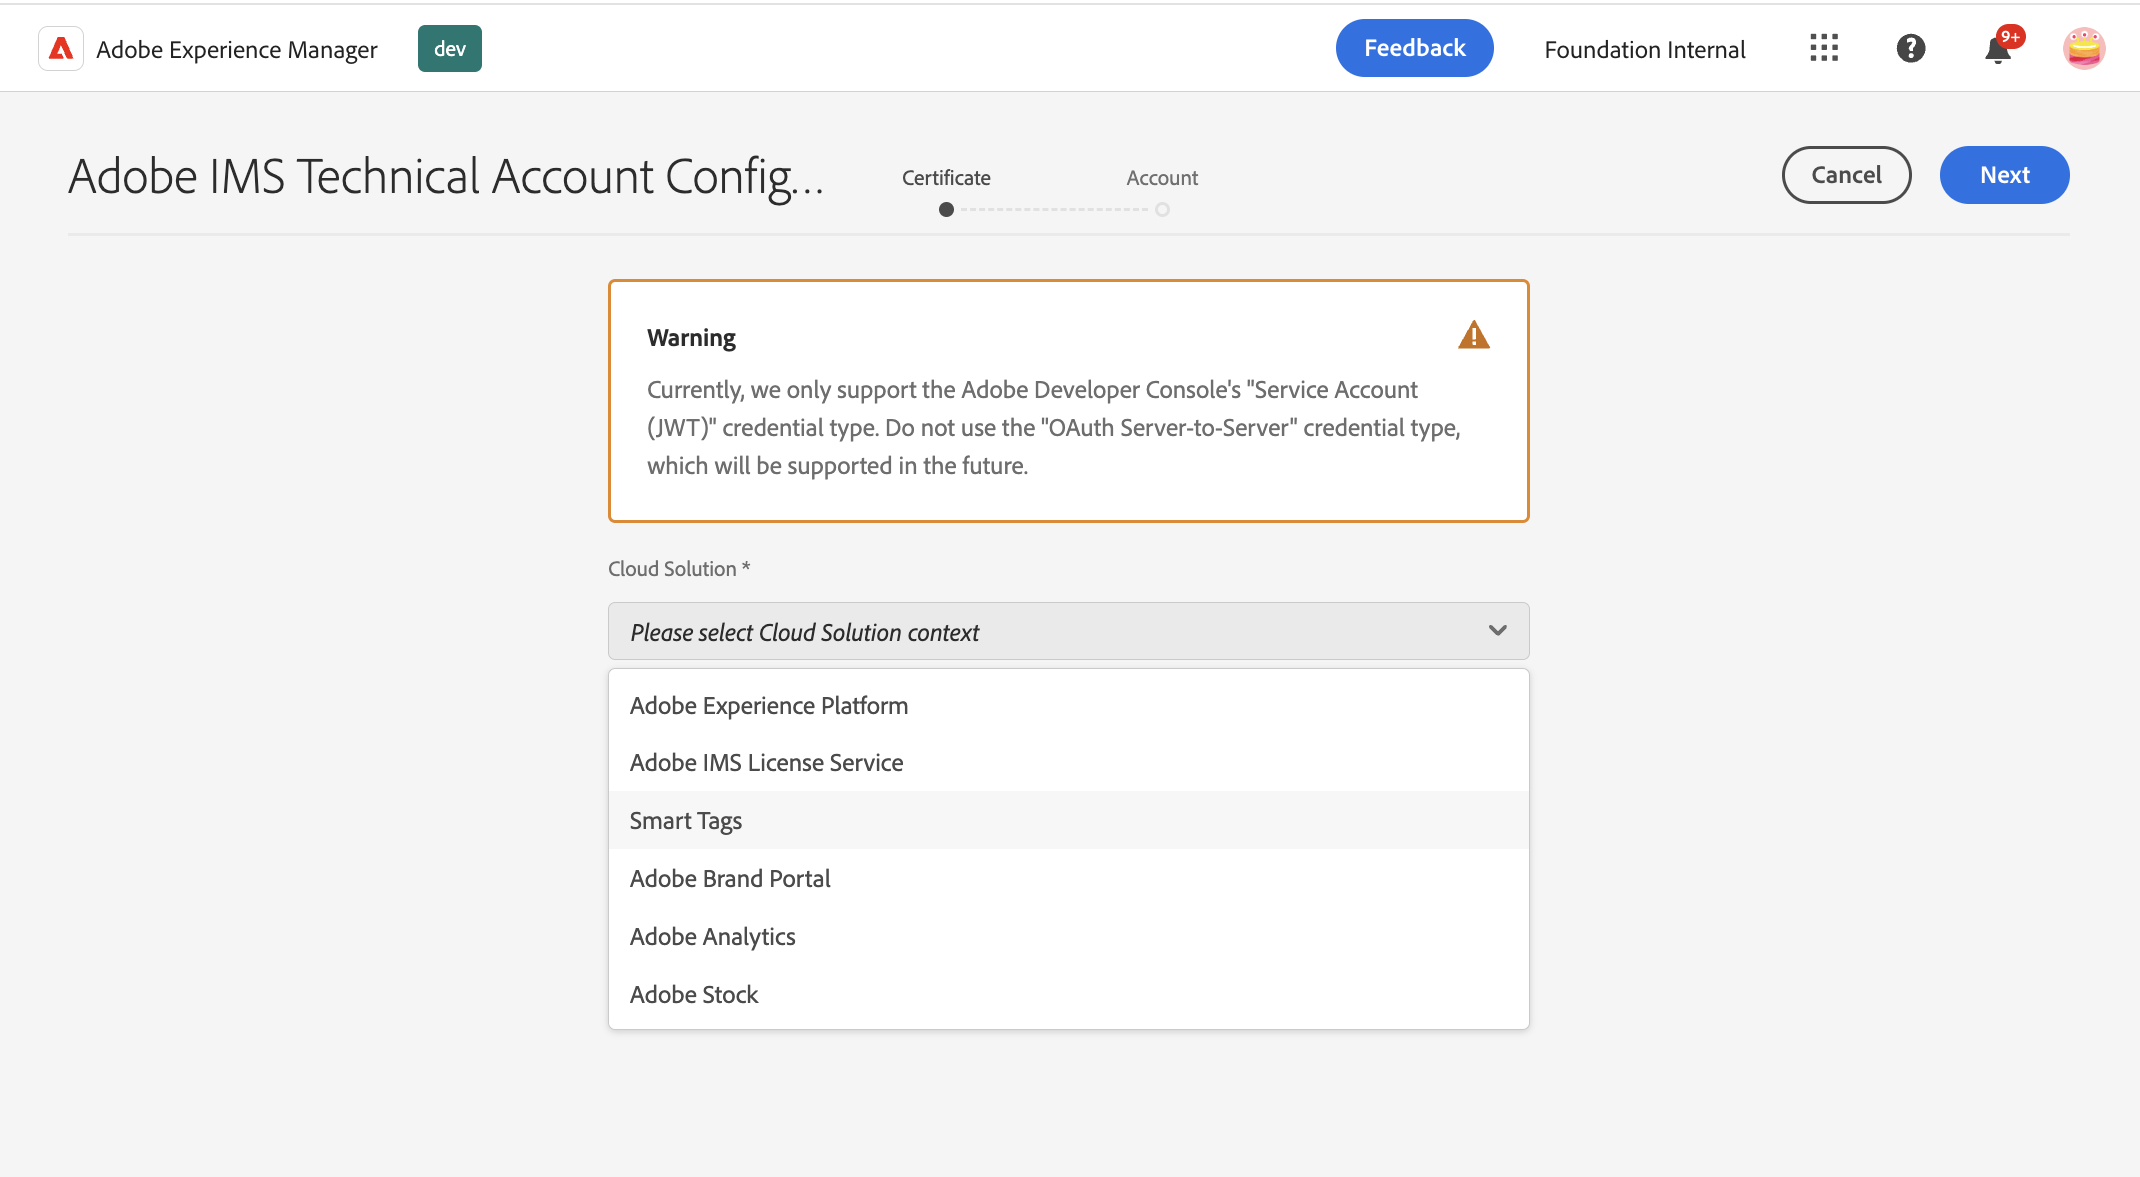
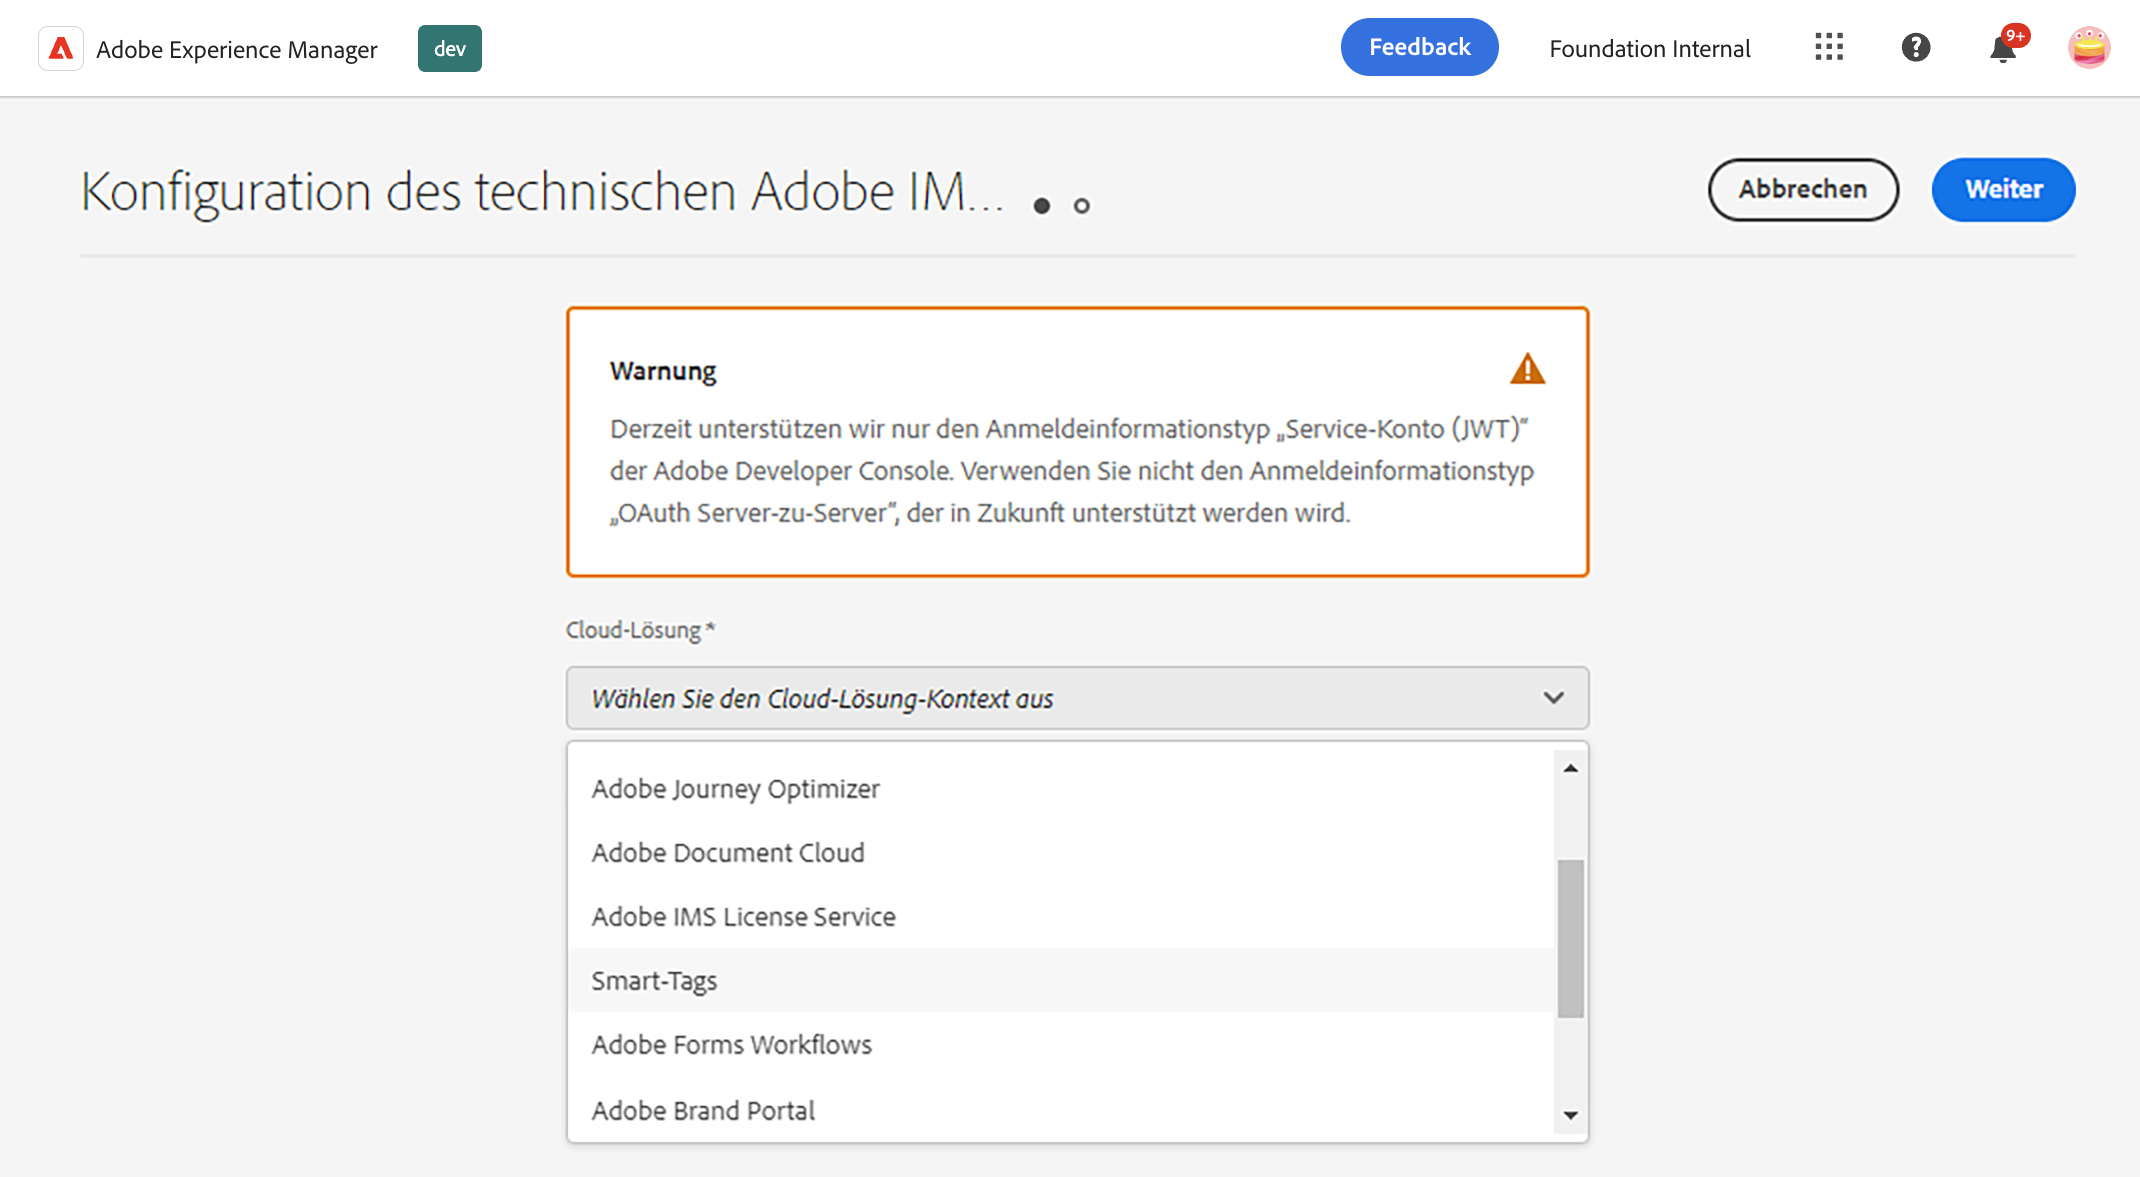
Updated by task 'AUTO_HANDOFF_PRIORITY_1709106723234'  Changes for core/source commit https://git.corp.adobe.com/AdobeDocs/experience-manager-cloud-service.en/commit/120845c9661c081409906cec98c60d8c0798b9bc

diff --git a/help/security/jwt-credentials-deprecation-in-adobe-developer-console.md b/help/security/jwt-credentials-deprecation-in-adobe-developer-console.md
@@ -1,57 +1,57 @@
 ---
-title: Einstellung von JWT-Anmeldedaten in der Adobe Developer Console
-description: Erfahren Sie mehr über die Auswirkungen der Einstellung von JWT-Anmeldedaten in der Adobe Developer Console auf AEM
+title: Einstellung der JWT-Anmeldedaten in Adobe Developer Console
+description: Weitere Informationen zu den Auswirkungen der Einstellung der JWT-Anmeldedaten in Adobe Developer Console auf AEM
 source-git-commit: e02e38a5267188111f0392a0a5c7b73e6a4f22b5
-workflow-type: tm+mt
+workflow-type: ht
 source-wordcount: '598'
-ht-degree: 0%
+ht-degree: 100%
 
 ---
 
 
-# Einstellung von JWT-Anmeldedaten in der Adobe Developer Console {#jwt-credentials-deprecation-in-adobe-developer-console}
+# Einstellung der JWT-Anmeldedaten in Adobe Developer Console {#jwt-credentials-deprecation-in-adobe-developer-console}
 
-Adobe-Kunden verwenden [Adobe Developer-Konsole](https://developer.adobe.com/console) , um Anmeldeinformationen zu generieren, die den Zugriff auf verschiedene APIs ermöglichen. Die Kunden wählen aus verschiedenen Berechtigungstypen, von OAuth Server zu Server bis zu Single Page App. Einer dieser Berechtigungstypen, die Anmeldedaten für Dienstkonten (JWT), wurde zugunsten der OAuth Server-zu-Server-Anmeldedaten eingestellt. Neue Service Account (JWT)-Anmeldeinformationen können am oder nach dem 1. Mai 2024 nicht erstellt werden und vorhandene JWT-Anmeldeinformationen funktionieren am oder nach dem 1. Januar 2025 nicht mehr. Sie können [Informationen zur veralteten Version](https://developer.adobe.com/developer-console/docs/guides/authentication/ServerToServerAuthentication/migration/).
+Mit der [Adobe Developer Console](https://developer.adobe.com/console) können Kundinnen und Kunden von Adobe Anmeldedaten generieren, die den Zugriff auf verschiedene APIs ermöglichen. Dabei können sie unter verschiedenen Anmeldedatentypen wählen, von OAuth Server-zu-Server bis zu Single-Page-App. Einer dieser Anmeldedatentypen, Anmeldedaten für Dienstkonten (JWT), wurde zugunsten der OAuth Server-zu-Server-Anmeldedaten eingestellt. Neue Dienstkonten(JWT)-Anmeldedaten können ab dem 1. Mai 2024 nicht mehr erstellt werden und vorhandene JWT-Anmeldedaten funktionieren ab dem 1. Januar 2025 nicht mehr. [Weitere Information zur Einstellung der JWT-Anmeldedaten finden Sie hier](https://developer.adobe.com/developer-console/docs/guides/authentication/ServerToServerAuthentication/migration/).
 
-Dieser Artikel bietet einen zusätzlichen Kontext dazu, wie AEM as a Cloud Service und AEM 6.5-Kunden die Einstellung handhaben sollten.
+Dieser Artikel bietet zusätzliche Informationen dazu, wie Kundinnen und Kunden von AEM as a Cloud Service und AEM 6.5 auf diese Einstellung reagieren sollten.
 
-Der Hauptvorteil ist derzeit, dass AEM Funktionen die neuen OAuth Server-zu-Server-Anmeldedaten noch nicht unterstützen. Der Support wird bald verfügbar sein - bis Mitte April 2024 durch eine AEM-Version für AEM as a Cloud Service und durch ein spezielles Kompatibilitätspaket, das für AEM 6.5 installiert wird, wenn Sie das neueste Service Pack 20 oder niedriger ausführen (Service Pack 21 und höher wird es automatisch einschließen). Möglicherweise haben Sie eine E-Mail mit Anweisungen zum Migrieren Ihrer JWT-Anmeldeinformationen erhalten. Sie sollten jedoch sicherstellen, dass Sie die Migration der Anmeldeinformationen speichern können und sollten, bis AEM den neuen OAuth-Server-zu-Server-Berechtigungstyp unterstützt.
+Die wichtigste Information ist derzeit, dass AEM-Funktionen die neuen OAuth Server-zu-Server-Anmeldedaten noch nicht unterstützen. Support wird bald verfügbar sein. Bis Mitte April 2024 wird eine AEM-Version für AEM as a Cloud Service erscheinen und ein spezielles Kompatibilitätspaket, das für AEM 6.5 installiert werden kann, wenn Sie das neueste Service Pack 20 oder niedriger ausführen (Service Pack 21 und höher wird es automatisch einschließen). Möglicherweise haben Sie eine E-Mail mit Anweisungen zum Migrieren Ihrer JWT-Anmeldedaten erhalten. Bitte warten Sie jedoch mit der Migration der Anmeldedaten bis AEM den neuen OAuth-Server-zu-Server-Anmeldedatentyp unterstützt.
 
-In den folgenden Abschnitten werden die Szenarien aufgelistet, in denen Kunden ihre JWT-Anmeldeinformationen (Service Account) durch OAuth Server-zu-Server-Anmeldeinformationen ersetzen müssen (oder in einigen Fällen nicht), sobald AEM sie Mitte April unterstützt. [Lesen von](https://developer.adobe.com/developer-console/docs/guides/authentication/ServerToServerAuthentication/migration/#migration-overview) , um die Anmeldeinformationen in der Zukunft zu ersetzen.
+In den folgenden Abschnitten werden die Szenarien aufgeführt, in denen Kundinnen und Kunden ihre Dienstkonten(JWT)-Anmeldedaten durch OAuth Server-zu-Server-Anmeldedaten ersetzen müssen (oder in einigen Fällen dies nicht tun sollten), sobald AEM sie ab Mitte April unterstützt. Weitere Informationen dazu, wie die Anmeldedaten in Zukunft ersetzt werden können, finden Sie [hier](https://developer.adobe.com/developer-console/docs/guides/authentication/ServerToServerAuthentication/migration/#migration-overview).
 
 >[!NOTE]
 >
->Die [**AEM** Entwicklerkonsole](/help/implementing/developing/introduction/development-guidelines.md#crxde-lite-and-developer-console) (Beachten Sie die **AEM** im Namen, der ihn von der **Adobe** Developer Console) bietet ein Dienstprogramm zum Generieren von [JWT-Token](/help/implementing/developing/introduction/generating-access-tokens-for-server-side-apis.md) wird für Server-zu-Server-APIs verwendet. Diese Anmeldeinformationen werden nicht veraltet und können weiterhin verwendet werden.
+>Die [**AEM** Developer Console](/help/implementing/developing/introduction/development-guidelines.md#crxde-lite-and-developer-console) (Beachten Sie **AEM** im Namen, was die AEM Developer Console von der **Adobe** Developer Console unterscheidet) bietet ein Dienstprogramm zum Generieren von [JWT-Token](/help/implementing/developing/introduction/generating-access-tokens-for-server-side-apis.md), die für Server-zu-Server-APIs verwendet werden. Diese Anmeldedaten sind nicht veraltet und können weiterhin verwendet werden.
 
 
 ## Integrieren von AEM mit anderen Adobe-Lösungen {#integrating-aem-with-other-adobe-solutions}
 
-**Aktion**: Warten Sie bis zur Migration Mitte April 2024, wenn AEM dies unterstützt.
+**Aktion**: Warten Sie bis nach der Migration Mitte April 2024, wenn AEM dies unterstützen wird.
 
-**Relevante AEM**: AEM as a Cloud Service und Adobe Managed Services (Service Pack 20 und höher).
+**Relevante AEM-Versionen**: AEM as a Cloud Service und Adobe Managed Services (Service Pack 20 und höher).
 
 
-AEM Kunden verwenden die AEM Author-Benutzeroberfläche, um Integrationen mit allen anderen Adobe-Lösungen zu konfigurieren. Beispielsweise Adobe Target, Adobe Analytics, Adobe Launch, AFCS und viele andere.
+Mit der AEM Author-Benutzeroberfläche können Kundinnen und Kunden von AEM Integrationen mit allen anderen Adobe-Lösungen konfigurieren. Unter anderem Adobe Target, Adobe Analytics, Adobe Launch, AFCS und viele weitere.
 
-![AEM mit anderen Lösungen integrieren](/help/security/assets/jwt-deprecation.png)
+![Integrieren von AEM mit anderen Lösungen](/help/security/assets/jwt-deprecation.png)
 
-Beispiel: [die Anweisungen](https://docs.mktossl.com/docs/experience-manager-cloud-service/content/sites/integrations/integration-adobe-target-ims.html?lang=en) für die Konfiguration der Integration mit Adobe Target. Der API-Schlüssel im [Abschließen der IMS-Konfiguration in AEM](https://docs.mktossl.com/docs/experience-manager-cloud-service/content/sites/integrations/integration-adobe-target-ims.html#completing-the-ims-configuration-in-aem) sollte in den OAuth-Server-zu-Server-Berechtigungstyp migriert werden, sobald AEM diese Anmeldeinformationen Mitte April unterstützt. Diese Anweisungen werden Mitte April aktualisiert, damit Sie die neuen OAuth Server-zu-Server-Anmeldedaten anwenden können.
+Zum Beispiel finden Sie [hier](https://docs.mktossl.com/docs/experience-manager-cloud-service/content/sites/integrations/integration-adobe-target-ims.html?lang=de) die Anweisungen zum Konfigurieren der Integration mit Adobe Target. Der API-Schlüssel im Abschnitt [Abschließen der IMS-Konfiguration in AEM](https://docs.mktossl.com/docs/experience-manager-cloud-service/content/sites/integrations/integration-adobe-target-ims.html?lang=de#completing-the-ims-configuration-in-aem) sollte in den OAuth-Server-zu-Server-Anmeldedatentyp migriert werden, sobald AEM diese Anmeldedaten Mitte April unterstützt. Diese Anweisungen werden Mitte April überarbeitet, damit Sie die neuen OAuth Server-zu-Server-Anmeldedaten anwenden können.
 
 ## Cloud Manager-APIs {#cloud-manager-apis}
 
-**Aktion**: Warten Sie bis zur Migration Mitte April 2024, wenn AEM dies unterstützt.
+**Aktion**: Warten Sie bis zur Migration Mitte April 2024, wenn AEM dies unterstützen wird.
 
-**Relevante AEM**: AEM as a Cloud Service und Adobe Managed Services (Service Pack 20 und höher).
+**Relevante AEM-Versionen**: AEM as a Cloud Service und Adobe Managed Services (Service Pack 20 und höher).
 
-Kunden erstellen Adobe Developer Console-Projekte, damit sie aufrufen können [Cloud Manager-APIs](https://developer.adobe.com/experience-cloud/cloud-manager/guides/getting-started/create-api-integration/). Die Anmeldeinformationen im Adobe Developer-Projekt sollten in den OAuth-Server-zu-Server-Berechtigungstyp migriert werden, sobald sie von AEM und Cloud Manager unterstützt werden.
+Kundinnen und Kunden erstellen Adobe Developer Console-Projekte, damit sie die [Cloud Manager-APIs](https://developer.adobe.com/experience-cloud/cloud-manager/guides/getting-started/create-api-integration/) aufrufen können. Die Anmeldedaten im Adobe Developer-Projekt sollten in den OAuth-Server-zu-Server-Anmeldedatentyp migriert werden, sobald sie von AEM und Cloud Manager unterstützt werden.
 
 ## Automatisch generierte Projekte {#autogen-projects}
 
-**Aktion**: Migrieren Sie nicht, da Adobe in Ihrem Namen migriert.
+**Aktion**: Führen Sie die Migration nicht eigenständig durch, da Adobe die Migration in Ihrem Namen durchführen wird.
 
-**Relevante AEM**: Nur AEM as a Cloud Service.
+**Relevante AEM-Versionen**: Nur AEM as a Cloud Service.
 
-Wenn Cloud Manager as a Cloud Service Umgebungen AEM, wird automatisch ein Adobe Developer Console-Projekt mit JWT-Anmeldeinformationen generiert. Dieses Projekt ist als schreibgeschützt markiert, wie im folgenden Screenshot dargestellt. Kunden können und sollten nicht versuchen, diese Projekte zu OAuth Server-zu-Server-Anmeldeinformationen zu migrieren. Stattdessen migriert Adobe diese Projekte allein, bevor die Anmeldeinformationen nicht mehr verwendet werden können.
+Wenn Cloud Manager AEM as a Cloud Service-Umgebungen bereitstellt, wird automatisch ein Adobe Developer Console-Projekt mit JWT-Anmeldedaten generiert. Dieses Projekt ist als schreibgeschützt markiert, wie im folgenden Screenshot dargestellt. Kundinnen und Kunden können und sollten nicht versuchen, diese Projekte zu OAuth-Server-zu-Server-Anmeldedaten zu migrieren. Stattdessen migriert Adobe diese Projekte von sich aus, bevor die Anmeldedaten nicht mehr verwendet werden können.
 
 ![Automatisch generierte Projekte](/help/security/assets/jwt-deprecation-autogen-projects.png)
 

diff --git a/help/release-notes/release-notes-cloud/release-notes-current.md b/help/release-notes/release-notes-cloud/release-notes-current.md
@@ -4,7 +4,7 @@ description: Aktuelle Versionshinweise für [!DNL Adobe Experience Manager] as a
 mini-toc-levels: 1
 exl-id: a2d56721-502c-4f4e-9b72-5ca790df75c5
 source-git-commit: 3a86639d9203fff3c72e63baa8d1499b18a4539f
-workflow-type: tm+mt
+workflow-type: ht
 source-wordcount: '937'
 ht-degree: 100%
 
@@ -26,7 +26,7 @@ Im folgenden Abschnitt werden die allgemeinen Versionshinweise für die aktuelle
 
 ## Veröffentlichungsdatum {#release-date}
 
-Das Veröffentlichungsdatum der aktuellen Version von [!DNL Adobe Experience Manager] as a [!DNL Cloud Service] (2024.1.0) ist der 25. Januar 2024. Die nächste Version mit neuen Funktionen (2024.3.0) ist für den Freitag, 4. April 2024 geplant.
+Das Veröffentlichungsdatum der aktuellen Version von [!DNL Adobe Experience Manager] as a [!DNL Cloud Service] (2024.1.0) ist der 25. Januar 2024. Die nächste Version mit neuen Funktionen (2024.3.0) ist für den 4. April 2024 geplant.
 
 ## Wartungsversionshinweise {#maintenance}
 

diff --git a/help/overview/what-is-new-and-different.md b/help/overview/what-is-new-and-different.md
@@ -3,7 +3,7 @@ title: Unterschiede und neue Funktionen – Adobe Experience Manager as a Cloud 
 description: Unterschiede und neue Funktionen – Adobe Experience Manager (AEM) as a Cloud Service
 exl-id: d1ce126e-960c-4367-b741-af709dd81010
 source-git-commit: bbd845079cb688dc3e62e2cf6b1a63c49a92f6b4
-workflow-type: tm+mt
+workflow-type: ht
 source-wordcount: '1883'
 ht-degree: 100%
 
